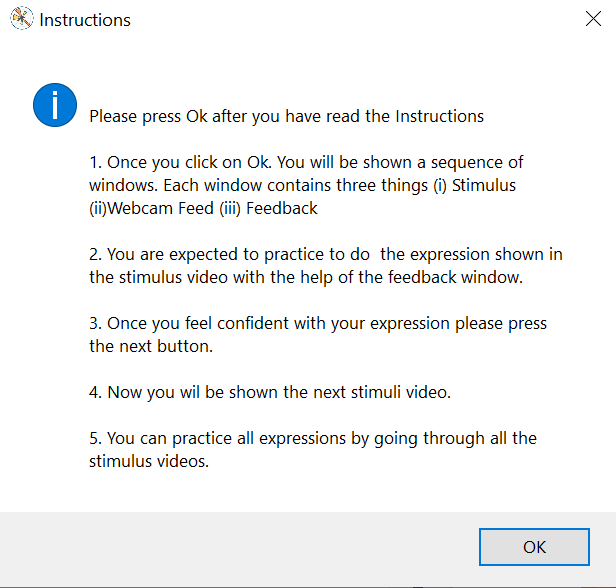
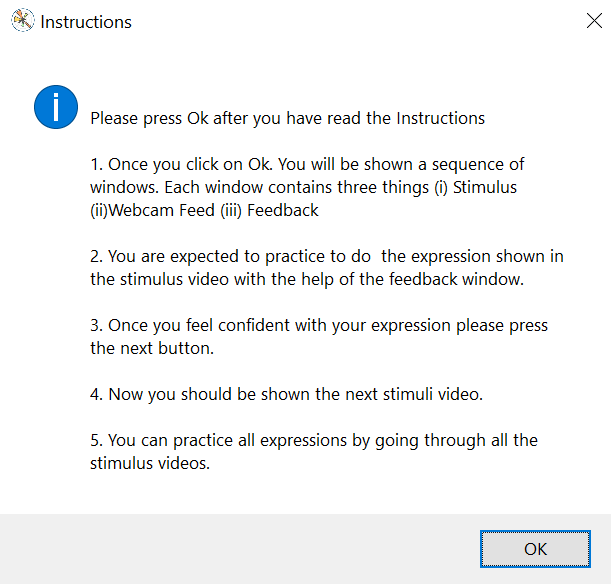
adding resources

diff --git a/Experimental_Setup/misc.py b/Experimental_Setup/misc.py
@@ -18,7 +18,7 @@ Instructions = """  Please press Ok after you have read the Instructions
 
 3. Once you feel confident with your expression please press  the record button. 
  
-4. You will be  immediately be shown your  webcam feed. Please  mimic the expression.
+4. You should be  immediately be shown your  webcam feed next. Please  mimic the expression now.
 
 7. Once you reach the peak expression intensity , click the middle mouse button, the recording will begin now.
 
@@ -37,7 +37,7 @@ Please press Ok after you have read the Instructions
 
 3. Once you feel confident with your expression please press  the next button. 
 
-4. Now you wil be shown the next stimuli video.
+4. Now you should be shown the next stimuli video.
 
 5. You can practice all expressions by going through all the stimulus videos.
 '''
